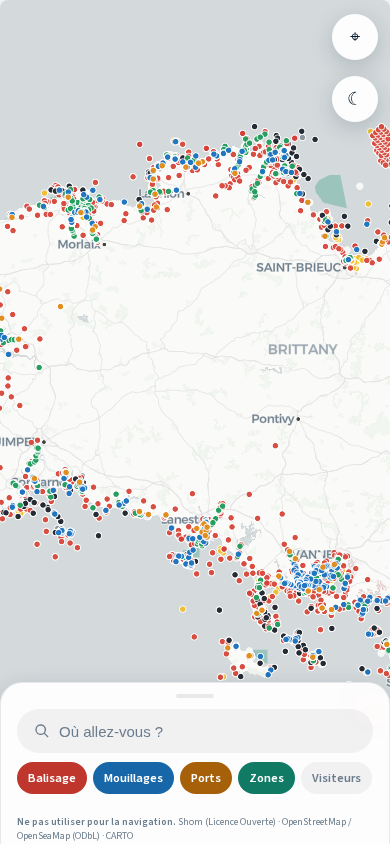
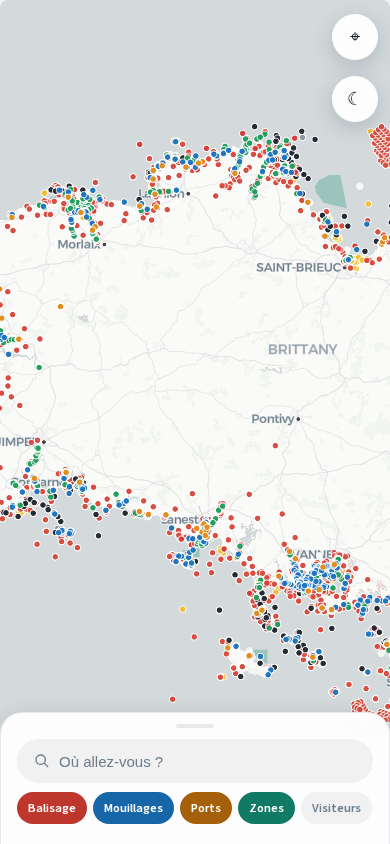
Take the credit line off the dock
Removed on request. Nothing on screen now credits the sources or warns that this
is not a chart to navigate on; the attribution ODbL and the Licence Ouverte ask
for lives only in the repository, in README and docs/04.

Changed region(s): [[0.0, 0.8009, 1.0, 1.0], [0.8, 0.8934, 0.8615, 0.9242], [0.8923, 0.8934, 0.9231, 0.9242]]

diff --git a/app/panels.py b/app/panels.py
@@ -2,8 +2,11 @@
 
 The top of the screen is the chart. Everything you can touch is in the dock — where you are
 going, what you are looking for, and, the moment you tap something, what it is. The chips
-wear the colour of what they draw, so there is no legend; the safety notice and the licences
-are one line of small print along its foot, because they are not a menu anyone opens.
+wear the colour of what they draw, so there is no legend.
+
+Nothing on screen credits the sources: the safety notice and the licence line were removed on
+request. The attribution ODbL and the Licence Ouverte ask for now lives only in the repository
+— README and docs/04.
 """
 
 from __future__ import annotations
@@ -26,11 +29,6 @@ from app.data import (
 )
 
 VISITOR = "visitor"
-
-CREDITS = (
-    "<b>Ne pas utiliser pour la navigation.</b> Shom (Licence Ouverte) · "
-    "OpenStreetMap / OpenSeaMap (ODbL) · CARTO"
-)
 
 #: The three facts that go in the sheet's chip row, in order of preference.
 CHIPS: tuple[tuple[str, str], ...] = (
@@ -96,10 +94,6 @@ def dock(selected: pd.Series | None) -> tuple[Filters, Destination | None]:
                 key="filters",
                 label_visibility="collapsed",
             )
-            # No ⓘ, no popover: the warning and the licences are not a menu anyone opens.
-            # They are one line of small print along the foot of the dock, the way a map
-            # carries its credits — and ODbL and the Licence Ouverte both require them.
-            st.markdown(f'<div class="fineprint">{CREDITS}</div>', unsafe_allow_html=True)
     picked = tuple(chosen or ())
     destination = search_index().get(label) if label else None
     filters = Filters(

diff --git a/app/theme.py b/app/theme.py
@@ -109,9 +109,6 @@ html, body, [data-testid="stAppViewContainer"] { height: 100%; overflow: hidden;
   width: 38px; height: 4px; border-radius: 999px; background: var(--edge);
   margin: 0 auto 10px; display: none;
 }
-.fineprint { font-size: 10px; line-height: 1.35; color: var(--muted); margin-top: 10px; }
-.fineprint b { color: var(--muted); }
-
 .sheet-kicker { font-size: 11px; font-weight: 700; letter-spacing: .09em;
   text-transform: uppercase; color: var(--accent); }
 .sheet-title { font-size: 21px; font-weight: 700; line-height: 1.2; margin: 3px 0 10px;
